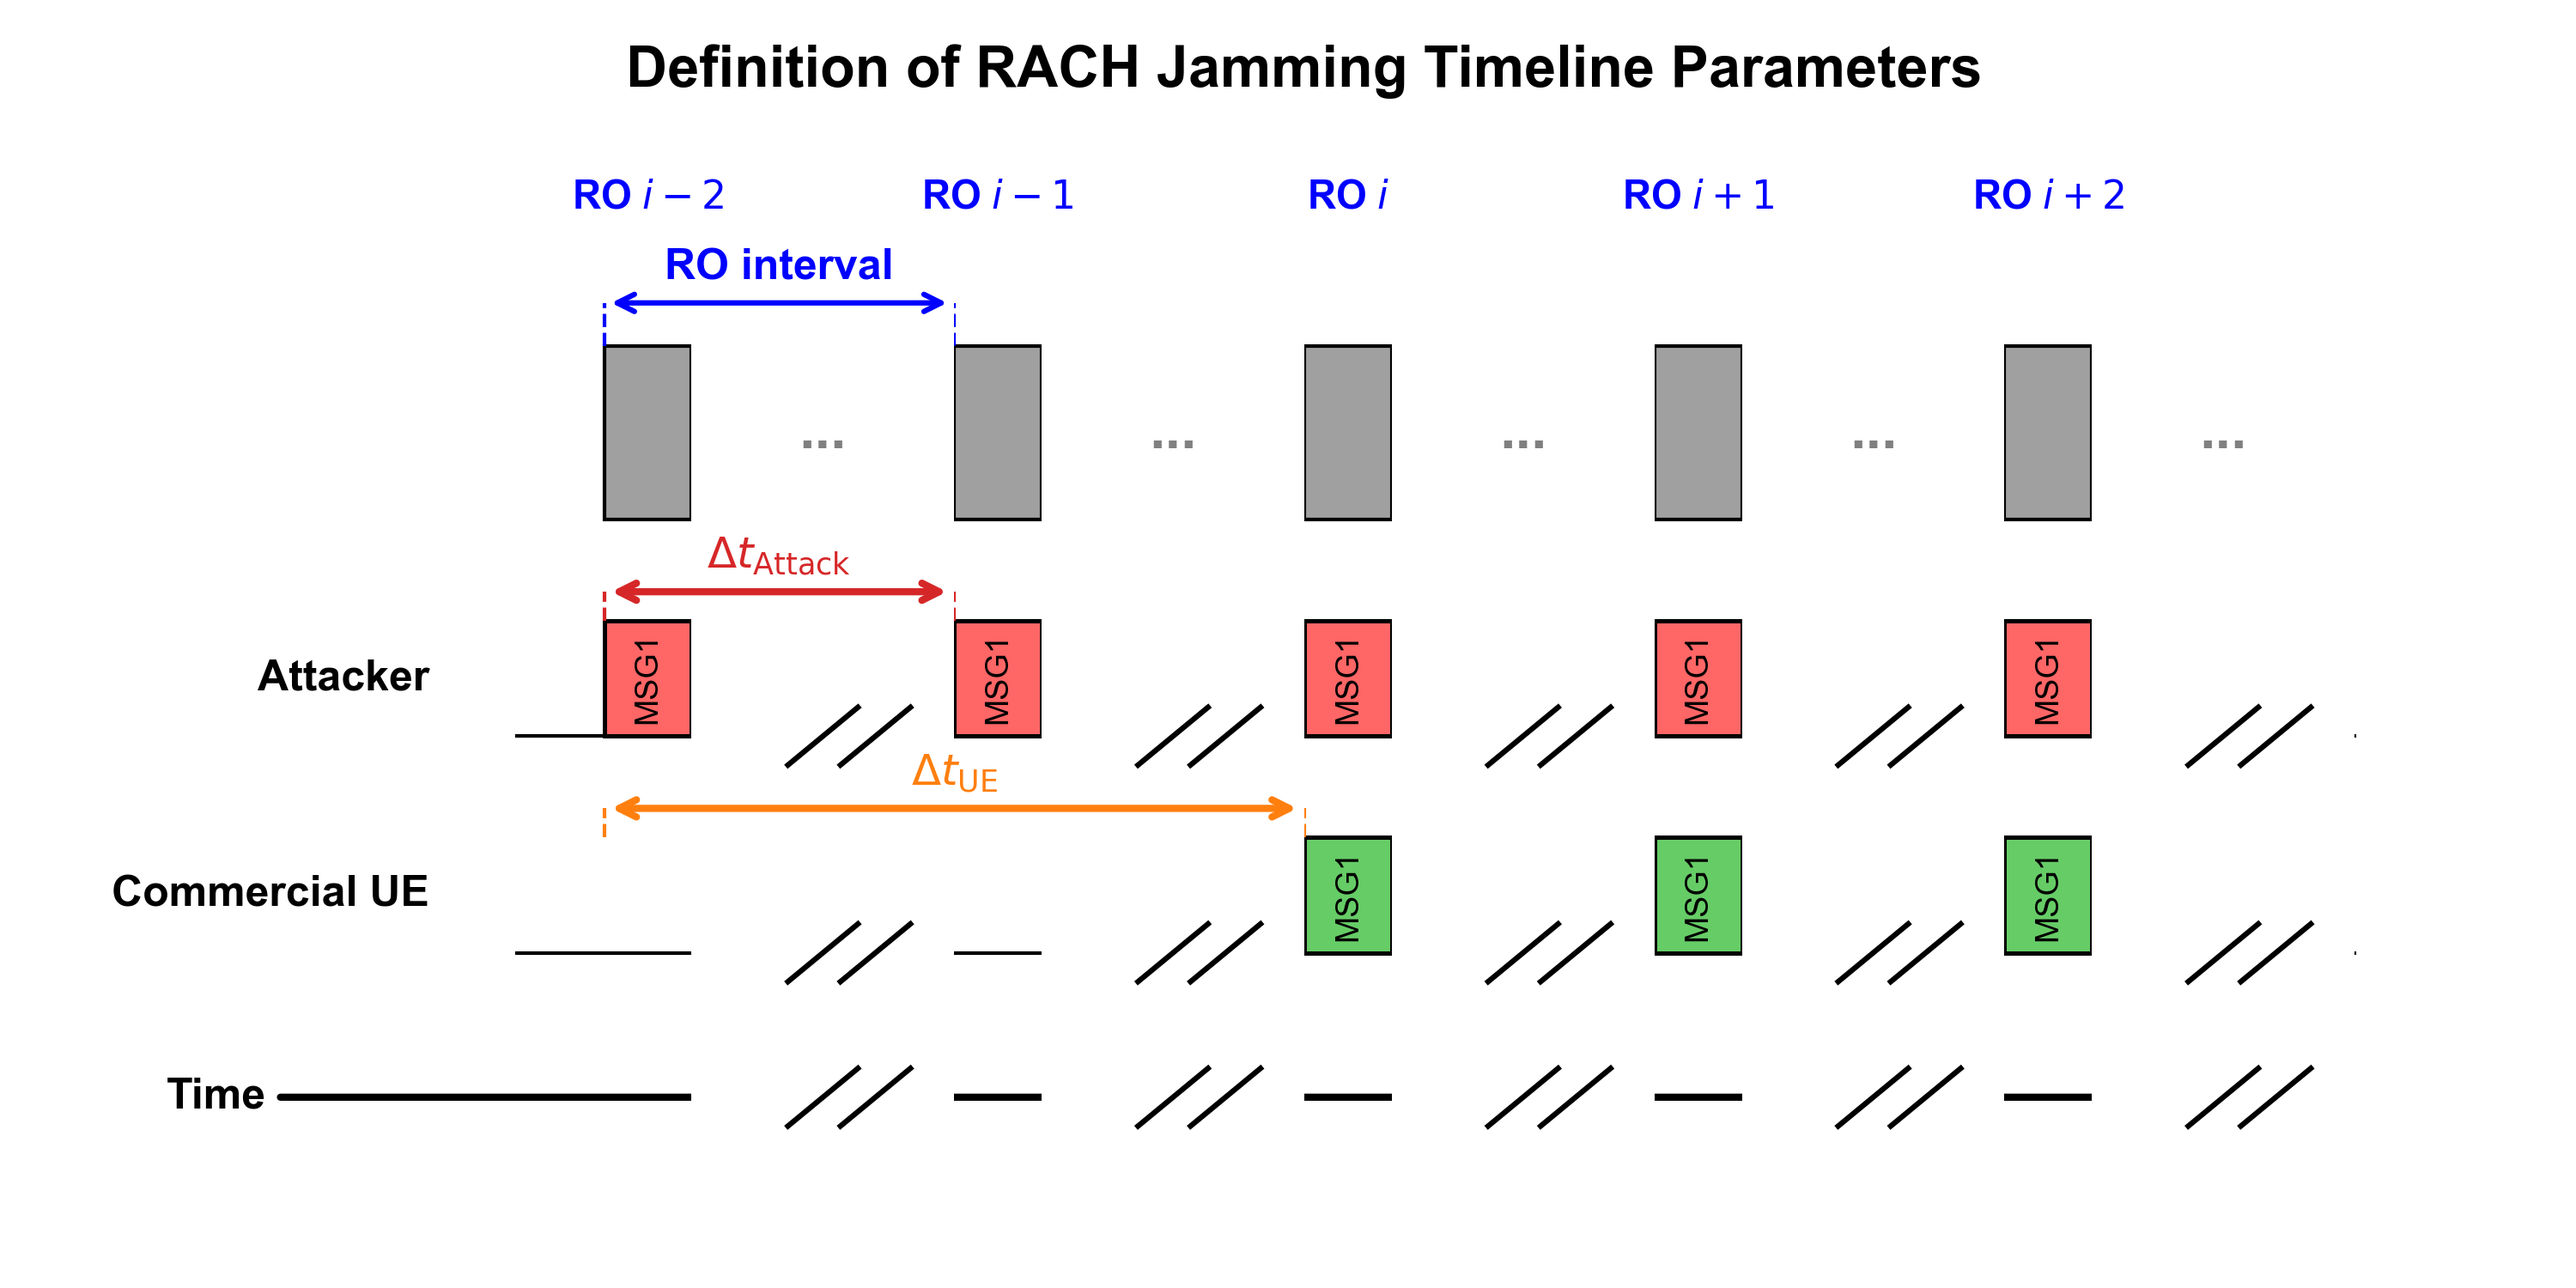
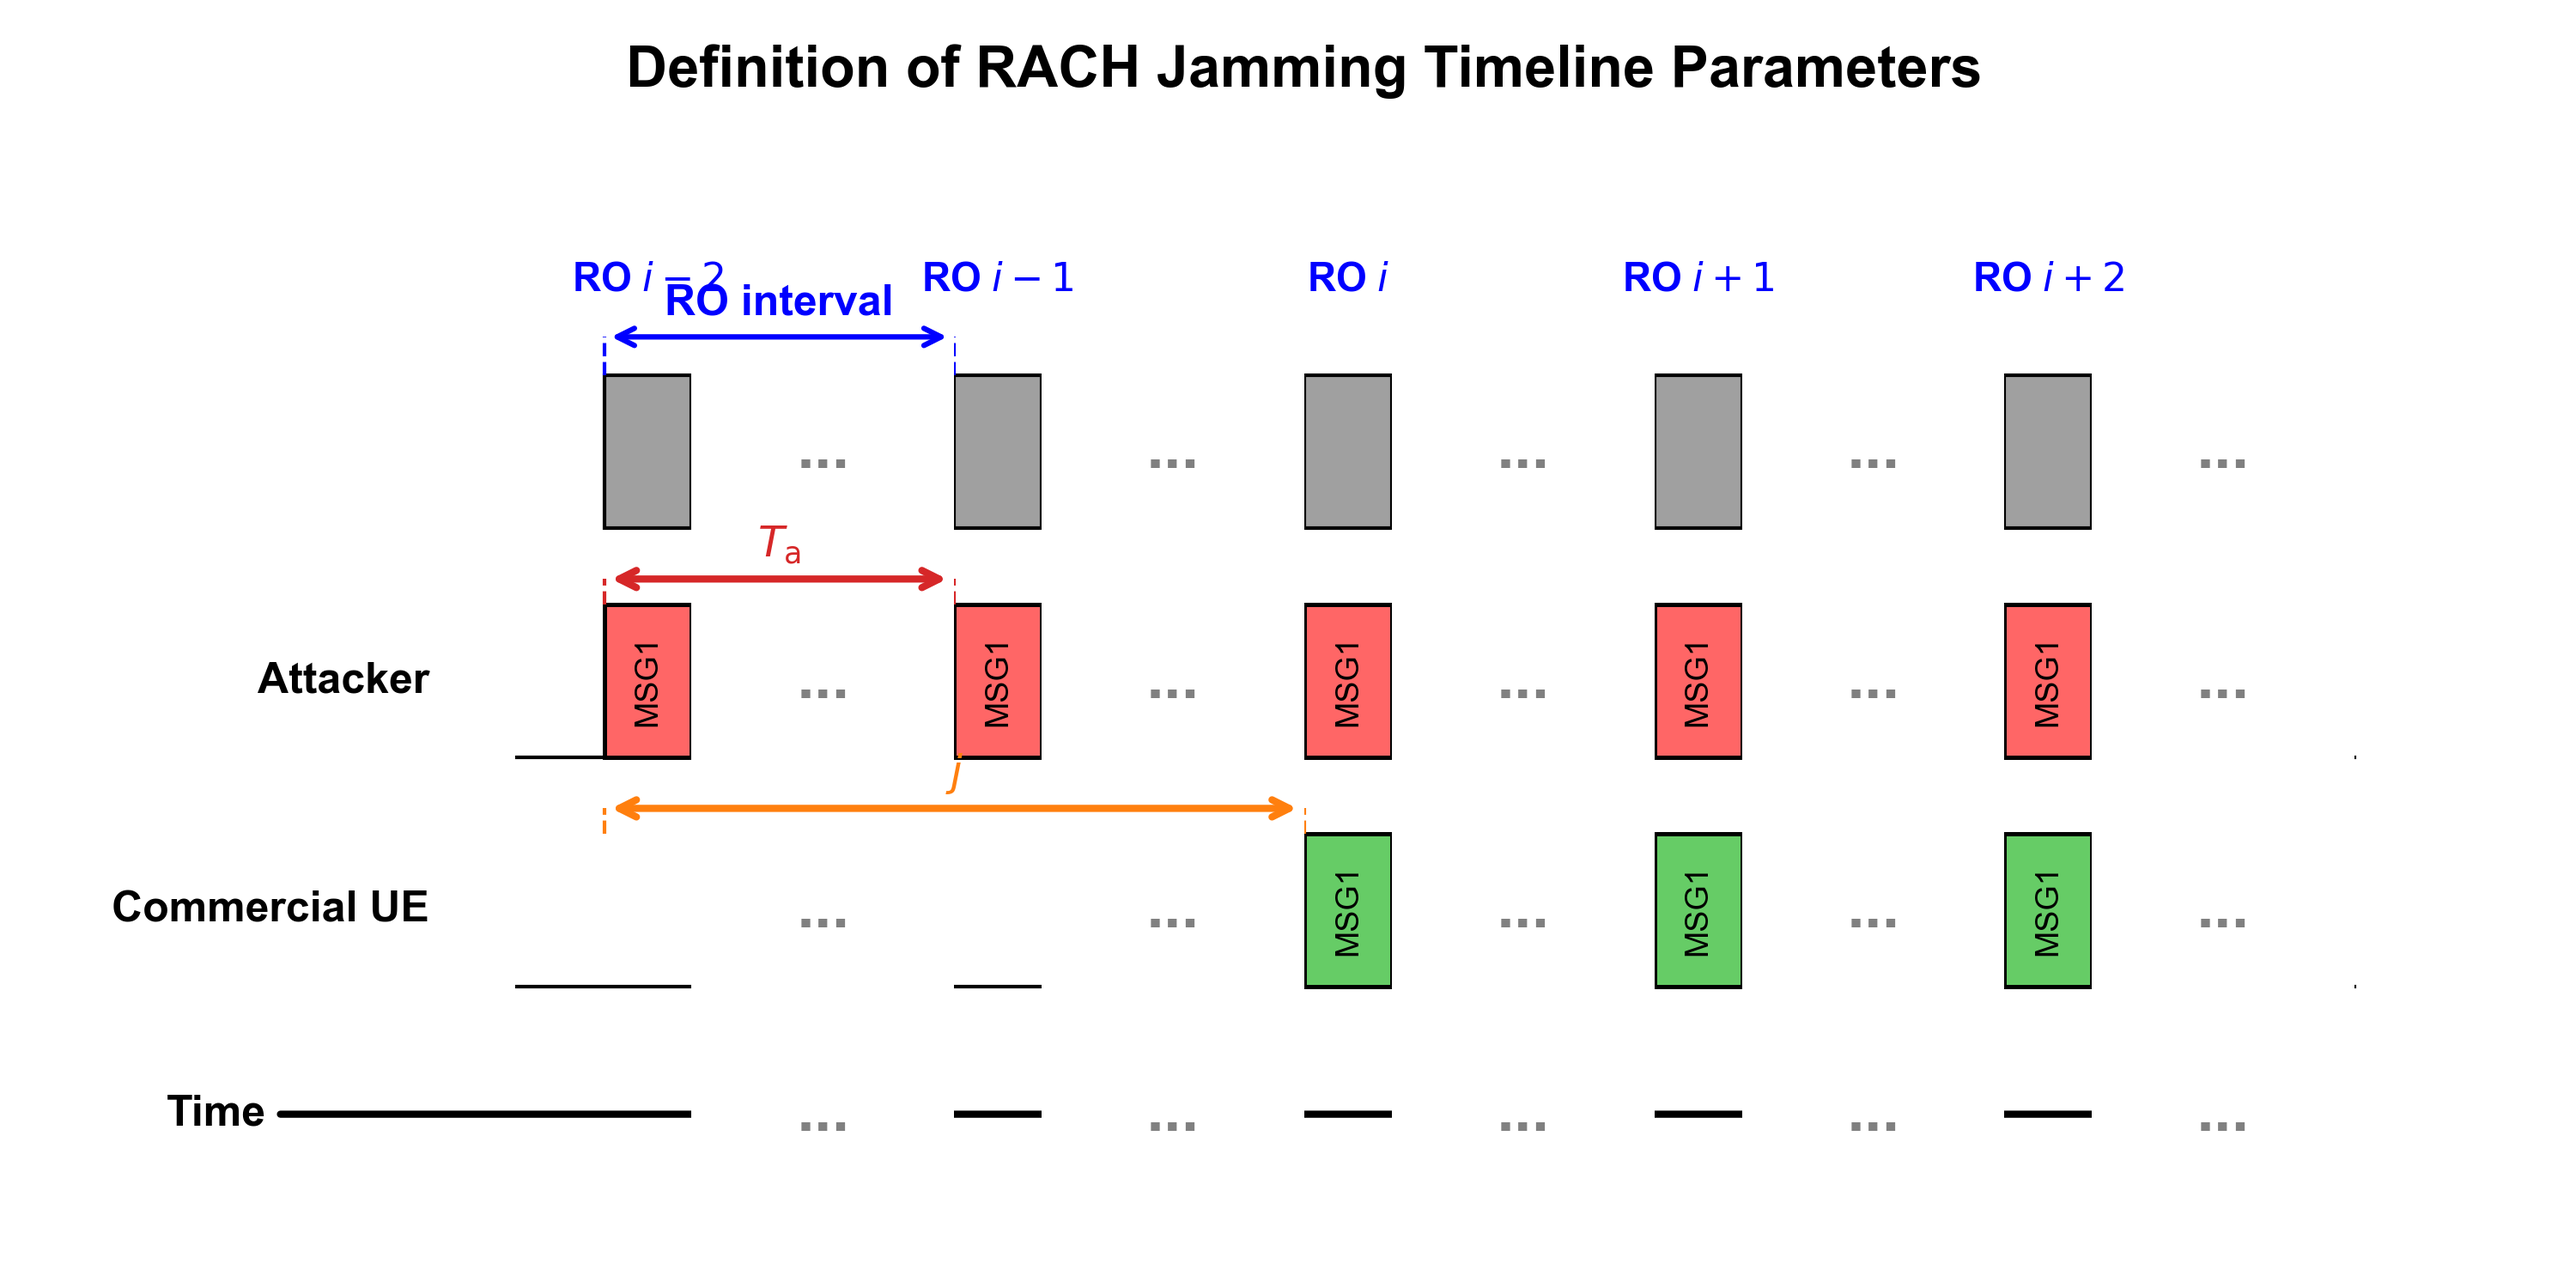
add: plot figure code ˙

diff --git a/0408/RO-draw3.py b/0408/RO-draw3.py
@@ -1,43 +1,52 @@
 import matplotlib.pyplot as plt
 import matplotlib.patches as patches
+import matplotlib.patheffects as path_effects
 import numpy as np
 
 # 設置字體與樣式
 plt.rcParams['font.family'] = 'sans-serif'
-plt.rcParams['font.sans-serif'] = ['Arial', 'Liberation Sans']
+plt.rcParams['font.sans-serif'] = ['Arial', 'Liberation Sans', 'Helvetica']
 plt.rcParams['font.size'] = 12
 
 # --- 參數設定 ---
-display_ROs = 5  # 我們改為畫 5 個連續的 RO 塊
+display_ROs = 7  # 我們改為畫 7 個連續的 RO 塊
 ro_width = 1.0
+ro_height = 1.2
 gap_width = 3.0  # RO 與 RO 之間的極小留白
 visual_stride = ro_width + gap_width
 
 # 預設繪圖內部依靠這些變數安排位置
 Ta = 1
-j = 2   
+j = 3   
 
-fig, ax = plt.subplots(figsize=(10, 5))
+fig, ax = plt.subplots(figsize=(15, 6))
+
+# 定義陰影效果，讓方塊更有立體層次感
+shadow_effect = [path_effects.SimplePatchShadow(offset=(1.5, -1.5), shadow_rgbFace='#b0b0b0', alpha=0.4),
+                 path_effects.Normal()]
+
+# 分配更寬裕的 Y 軸高度給不同層級，避免互相擠壓
+y_ue = 0.0
+y_atk = 3.0
+y_slot = 6.0
 
 # ==========================================
 # 1. 繪製最上層：僅保留 RO 塊 (完全移除 Frame)
 # ==========================================
-y_slot = 3.0
-
 ro_positions_logical = []
 gap_centers = []
 
 for k in range(display_ROs):
     visual_s = k * visual_stride
-    
-    # 計算這個 RO 右側 Gap 的中心點
     cx = visual_s + ro_width + gap_width / 2
     gap_centers.append(cx)
     
-    # 畫出代表 RO 的方塊 (依需求加高至 1.2)
-    ax.add_patch(patches.Rectangle((visual_s, y_slot), ro_width, 1.2, facecolor='#a0a0a0', edgecolor='black', lw=1.0))
+    # 畫出代表 RO 的方塊 (height = ro_height)
+    rect = patches.Rectangle((visual_s, y_slot), ro_width, ro_height, 
+                             facecolor='#E8EDF2', edgecolor='#7C93A7', lw=1.5)
+    rect.set_path_effects(shadow_effect)
+    ax.add_patch(rect)
     
-    # 依賴 UE 出現的設定作為原點 i，而不是左邊第一個框
     i_index = k - j
     ro_positions_logical.append((i_index, visual_s))
     if i_index == 0:
@@ -47,114 +56,126 @@ for k in range(display_ROs):
     else:
         ro_label = rf'RO $i+{i_index}$'
         
-    ax.text(visual_s + ro_width/2, y_slot + 2.1, ro_label, 
-            ha='center', va='bottom', color='blue', fontweight='bold', fontsize=11)
+    ax.text(visual_s + ro_width/2, y_slot + ro_height + 0.3, ro_label, 
+            ha='center', va='bottom', color='#264E70', fontweight='bold', fontsize=11)
 
 ro_logical_dict = {i: vis_s for i, vis_s in ro_positions_logical}
 
-# RO Interval annotation (以第一個和第二個塊為主)
+# RO Interval annotation 
 first_idx = -j
 next_idx = -j + 1
 if first_idx in ro_logical_dict and next_idx in ro_logical_dict:
     pos_start = ro_logical_dict[first_idx]
     pos_end = ro_logical_dict[next_idx]
-    # 箭頭標示推昇至方塊上方 (1.5)
-    ax.annotate('', xy=(pos_start, y_slot+1.5), xytext=(pos_end, y_slot+1.5),
-                arrowprops=dict(arrowstyle='<->', color='blue', lw=1.5))
-    ax.text((pos_start + pos_end)/2, y_slot+1.6, r'RO interval', 
-            ha='center', va='bottom', color='blue', fontweight='bold')
-    ax.plot([pos_start, pos_start], [y_slot+1.2, y_slot+1.5], ls='--', color='blue', lw=1)
-    ax.plot([pos_end, pos_end], [y_slot+1.2, y_slot+1.5], ls='--', color='blue', lw=1)
+    arr_y = y_slot + ro_height + 1.2
+    
+    ax.annotate('', xy=(pos_start, arr_y), xytext=(pos_end, arr_y),
+                arrowprops=dict(arrowstyle='<|-|>', color='#264E70', lw=1.8, mutation_scale=12))
+    ax.text((pos_start + pos_end)/2, arr_y + 0.1, r'RO interval', 
+            ha='center', va='bottom', color='#264E70', fontweight='bold', fontsize=11)
+    ax.plot([pos_start, pos_start], [y_slot + ro_height + 0.1, arr_y], ls=':', color='#264E70', lw=1.2)
+    ax.plot([pos_end, pos_end], [y_slot + ro_height + 0.1, arr_y], ls=':', color='#264E70', lw=1.2)
 
 # ==========================================
 # 2. 繪製 Attacker 排程 
 # ==========================================
 max_visual = (display_ROs - 1) * visual_stride + ro_width
 
-y_atk = 1.5
 # 第一底線 (Attacker)
-ax.plot([-1, max_visual + gap_width], [y_atk, y_atk], color='black', lw=1, zorder=1)
-ax.text(-2, y_atk+0.4, 'Attacker', ha='right', va='center', fontweight='bold', fontsize=12)
+ax.plot([-1, max_visual + gap_width], [y_atk, y_atk], color='#404040', lw=1.2, zorder=1)
+ax.text(-1.5, y_atk + ro_height/2, 'Attacker', ha='right', va='center', fontweight='bold', fontsize=12, color='#A63D40')
 
-# 攻擊者在 -j 首次出現後，每隔 Ta 送出一次
 atk_indices = [i for i in ro_logical_dict.keys() if i >= -j and (i - (-j)) % Ta == 0]
 for i in atk_indices:
     if i in ro_logical_dict:
         vis_s = ro_logical_dict[i]
-        ax.add_patch(patches.Rectangle((vis_s, y_atk), ro_width, 0.8, facecolor='#ff6666', edgecolor='black', lw=1.2))
-        ax.text(vis_s + ro_width/2, y_atk + 0.4, 'MSG1', ha='center', va='center', fontsize=9, rotation=90)
+        # 與 RO 一模一樣的高度與寬度設定
+        rect = patches.Rectangle((vis_s, y_atk), ro_width, ro_height, 
+                                 facecolor='#FAD4D4', edgecolor='#D9534F', lw=1.5)
+        rect.set_path_effects(shadow_effect)
+        ax.add_patch(rect)
+        ax.text(vis_s + ro_width/2, y_atk + ro_height/2, 'MSG1', ha='center', va='center', 
+                fontsize=10, rotation=90, color='#900000', fontweight='bold')
 
 if -j in ro_logical_dict and (-j + Ta) in ro_logical_dict:
     pos1 = ro_logical_dict[-j]
     pos2 = ro_logical_dict[-j + Ta]
-    ax.annotate('', xy=(pos1, y_atk+1.0), xytext=(pos2, y_atk+1.0),
-                arrowprops=dict(arrowstyle='<->', color='#d62728', lw=2))
-    ax.text((pos1+pos2)/2, y_atk+1.1, r'$T_{\mathrm{a}}$', ha='center', va='bottom', color='#d62728', fontweight='bold')
-    ax.plot([pos1, pos1], [y_atk+0.8, y_atk+1.0], ls='--', color='#d62728', lw=1)
-    ax.plot([pos2, pos2], [y_atk+0.8, y_atk+1.0], ls='--', color='#d62728', lw=1)
+    arr_y = y_atk + ro_height + 0.4
+    ax.annotate('', xy=(pos1, arr_y), xytext=(pos2, arr_y),
+                arrowprops=dict(arrowstyle='<|-|>', color='#D9534F', lw=1.8, mutation_scale=12))
+    ax.text((pos1+pos2)/2, arr_y + 0.1, r'$\Delta T_{\mathrm{Attack}}$', ha='center', va='bottom', color='#D9534F', fontweight='bold')
+    ax.plot([pos1, pos1], [y_atk + ro_height + 0.1, arr_y], ls=':', color='#D9534F', lw=1.2)
+    ax.plot([pos2, pos2], [y_atk + ro_height + 0.1, arr_y], ls=':', color='#D9534F', lw=1.2)
 
 # ==========================================
 # 3. 繪製 UE 排程 
 # ==========================================
-y_ue = 0.0
 # 第二底線 (UE)
-ax.plot([-1, max_visual + gap_width], [y_ue, y_ue], color='black', lw=1, zorder=1)
-ax.text(-2, y_ue+0.4, 'Commercial UE', ha='right', va='center', fontweight='bold', fontsize=12)
+ax.plot([-1, max_visual + gap_width], [y_ue, y_ue], color='#404040', lw=1.2, zorder=1)
+ax.text(-1.5, y_ue + ro_height/2, 'Commercial\nUE', ha='right', va='center', fontweight='bold', fontsize=12, color='#388E3C')
 
-# UE 在 0 出現後，後續的每個 RO 也都會有送出 MSG1
 ue_indices = [i for i in ro_logical_dict.keys() if i >= 0]
 for i in ue_indices:
     if i in ro_logical_dict:
         vis_s = ro_logical_dict[i]
-        ax.add_patch(patches.Rectangle((vis_s, y_ue), ro_width, 0.8, facecolor='#66cc66', edgecolor='black', lw=1.2))
-        ax.text(vis_s + ro_width/2, y_ue + 0.4, 'MSG1', ha='center', va='center', fontsize=9, rotation=90)
+        # 與 RO 一模一樣的高度與寬度設定
+        rect = patches.Rectangle((vis_s, y_ue), ro_width, ro_height, 
+                                 facecolor='#DDF0D6', edgecolor='#66BB6A', lw=1.5)
+        rect.set_path_effects(shadow_effect)
+        ax.add_patch(rect)
+        ax.text(vis_s + ro_width/2, y_ue + ro_height/2, 'MSG1', ha='center', va='center', 
+                fontsize=10, rotation=90, color='#1B5E20', fontweight='bold')
 
 if -j in ro_logical_dict and 0 in ro_logical_dict:
     pos0 = ro_logical_dict[-j]
     pos_j = ro_logical_dict[0]
-    ax.annotate('', xy=(pos0, y_ue+1.0), xytext=(pos_j, y_ue+1.0),
-                arrowprops=dict(arrowstyle='<->', color='#ff7f0e', lw=2))
-    ax.text((pos0+pos_j)/2, y_ue+1.1, r'$j$', ha='center', va='bottom', color='#ff7f0e', fontweight='bold')
-    ax.plot([pos0, pos0], [y_ue+0.8, y_ue+1.0], ls='--', color='#ff7f0e', lw=1)
-    ax.plot([pos_j, pos_j], [y_ue+0.8, y_ue+1.0], ls='--', color='#ff7f0e', lw=1)
+    arr_y = y_ue + ro_height + 0.4
+    ax.annotate('', xy=(pos0, arr_y), xytext=(pos_j, arr_y),
+                arrowprops=dict(arrowstyle='<|-|>', color='#F57C00', lw=1.8, mutation_scale=12))
+    ax.text((pos0+pos_j)/2, arr_y + 0.1, r'$\Delta t_{\mathrm{UE}}$', ha='center', va='bottom', color='#F57C00', fontweight='bold')
+    ax.plot([pos0, pos0], [y_ue + ro_height + 0.1, arr_y], ls=':', color='#F57C00', lw=1.2)
+    ax.plot([pos_j, pos_j], [y_ue + ro_height + 0.1, arr_y], ls=':', color='#F57C00', lw=1.2)
 
 # ==========================================
 # 4. 圖表美化
 # ==========================================
-ax.set_xlim(-6, max_visual + gap_width + 2)
-# 把頂部推高一點點避免藍色的 i 標籤吃緊
-ax.set_ylim(-2.0, 5.5)
+ax.set_xlim(-5, max_visual + gap_width + 1)
+ax.set_ylim(-1.5, y_slot + ro_height + 2.5)
 
 y_time = -1.0
 
 # -----------------
 # 繪製 Gap Slashes (//) 及 ...
 # -----------------
-# 遍歷所有的 gap 中心 cx 
 for cx in gap_centers:
-    # 遮罩線條背景的白底，寬度設為稍微覆蓋
-    ax.add_patch(patches.Rectangle((cx - 1.5, -2.0), 3.0, 7.5, facecolor='white', edgecolor='none', zorder=2))
+    # 遮罩線條背景的白底
+    bg_rect = patches.Rectangle((cx - 1.5, -2.0), 3.0, 12.0, facecolor='white', edgecolor='none', zorder=2)
+    ax.add_patch(bg_rect)
     
     # 在 RO 層，加入 ...
-    # 配合高度 1.2，將 ... 推移到 Y=0.6 處
-    ax.text(cx, y_slot + 0.6, '...', ha='center', va='center', fontweight='bold', color='gray', fontsize=16, zorder=3)
+    ax.text(cx, y_slot + ro_height/2, '...', ha='center', va='center', fontweight='bold', color='#B0B0B0', fontsize=18, zorder=3)
 
-    # 在連續橫線的地方 (UE底線、Attacker底線、時間軸) 加入 //
+    # 在連續橫線的地方 (UE底線、Attacker底線、時間軸) 加入乾淨的 //
     for level in [y_ue, y_atk, y_time]:
-        h = 0.2
-        d = 0.4
-        ax.plot([cx - d, cx + d], [level - h, level + h], color='black', lw=1.5, zorder=3)
-        ax.plot([cx - d + 0.6, cx + d + 0.6], [level - h, level + h], color='black', lw=1.5, zorder=3)
+        h = 0.25
+        d = 0.25
+        # 第一條斜線
+        ax.plot([cx - d - 0.1, cx + d - 0.1], [level - h, level + h], color='#606060', lw=1.5, zorder=3)
+        # 第二條斜線
+        ax.plot([cx - d + 0.3, cx + d + 0.3], [level - h, level + h], color='#606060', lw=1.5, zorder=3)
 
 # Time axis (箭頭延伸跨過最後一個 ...)
 final_cx = gap_centers[-1]
-# 文字起點拉近設定在 x = -5
-ax.annotate('Time', xy=(final_cx + 1, y_time), xytext=(-5, y_time),
-            arrowprops=dict(arrowstyle='->', color='black', lw=2), ha='left', va='center', fontweight='bold', zorder=1)
+ax.annotate('Time', xy=(final_cx + 1, y_time), xytext=(-4, y_time),
+            arrowprops=dict(arrowstyle='-|>', color='#404040', lw=2, mutation_scale=15), 
+            ha='left', va='center', fontweight='bold', zorder=1, color='#404040')
 
 ax.axis('off')
-plt.title('Definition of RACH Jamming Timeline Parameters', fontweight='bold', pad=20, fontsize=16)
+
+# Title 
+plt.title('Definition of RACH Jamming Timeline Parameters', 
+          fontweight='bold', pad=20, fontsize=18, color='#303030')
 
 plt.tight_layout()
-plt.savefig('RO-draw3_corrected.png', dpi=300)
+plt.savefig('RO-draw3_corrected.png', dpi=300, bbox_inches='tight')
 plt.show()
